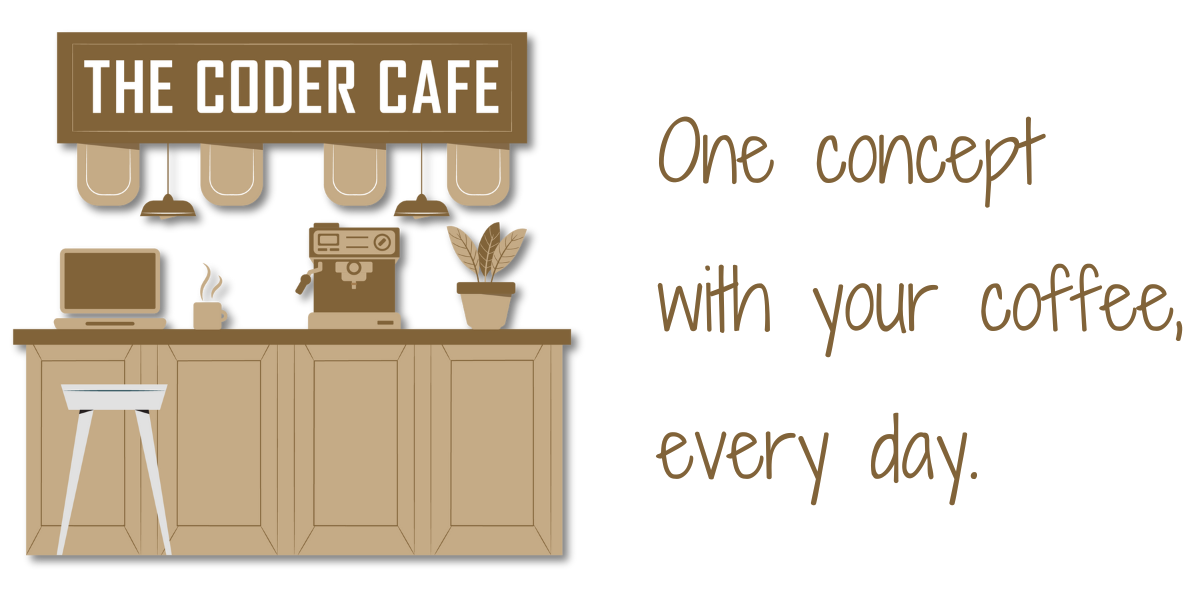
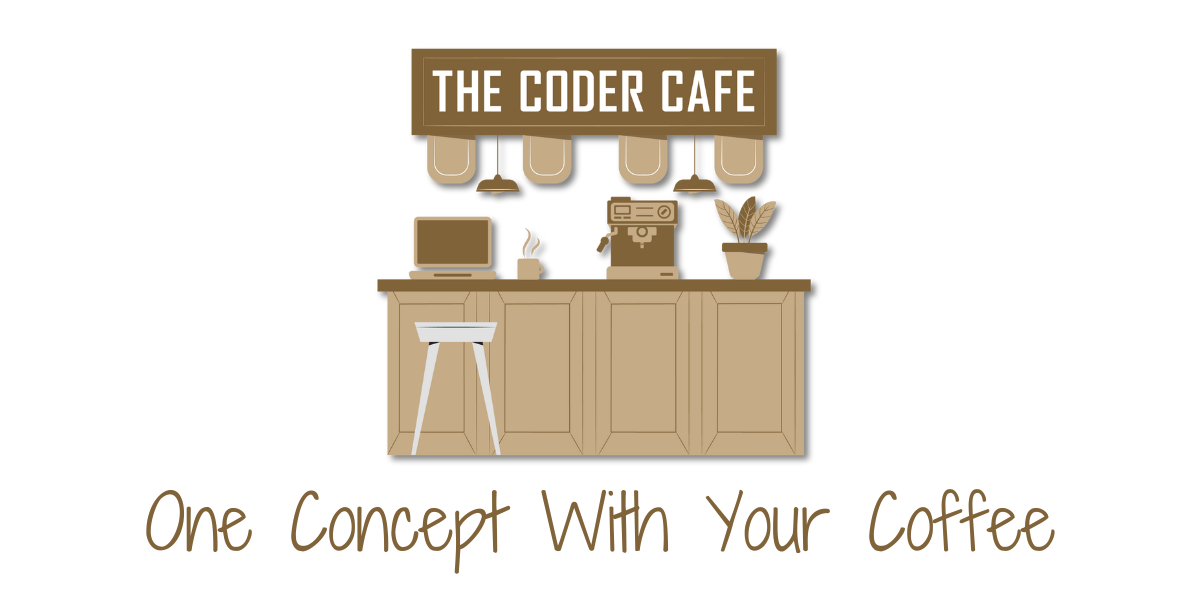
The Coder Cafe update.

diff --git a/site/newsletter/index.html b/site/newsletter/index.html
@@ -445,16 +445,16 @@
 
 
 <h1 id="the-coder-cafe">The Coder Cafe</h1>
-<p>In 2024, I took the next step in blogging by launching a daily newsletter for software engineers:</p>
+<p>In 2024, I took the next step in writing by launching my own newsletter for software engineers:</p>
 <p><center>
 <a href="https://thecoder.cafe">
 <a class="glightbox" href="../img/thecodercafe.png" data-type="image" data-width="auto" data-height="auto" data-desc-position="bottom"><img src="../img/thecodercafe.png" alt="" style="width:600px;height:300px;"></a>
 </a>
 </center></p>
 <blockquote>
-<p><em>Feeling overwhelmed by the endless stream of tech content? At The Coder Cafe, we serve one essential concept for coders daily. Written by a senior software engineer at Google, it's perfectly brewed for your morning coffee, helping you grow your skills deeply.</em></p>
+<p><em>Feeling overwhelmed by the endless stream of tech content? At The Coder Cafe, we serve one essential concepts for coders. Written by a senior software engineer at Google, it's perfectly brewed for your coffee, helping you grow your skills deeply.</em></p>
 </blockquote>
-<p>Feel free to visit <a href="https://thecoder.cafe">The Coder Cafe</a> to check it out. Here's a private <a href="https://www.thecoder.cafe/97539a4e">20% off</a> for the visitors coming from my website.</p>
+<p>Feel free to visit <a href="https://thecoder.cafe">The Coder Cafe</a> to check it out.</p>
 
 
 

diff --git a/docs/index.md b/docs/index.md
@@ -19,7 +19,7 @@ hide:
 
 <th2>Senior Software Engineer at Google</th2>
 
-<th3>Current status: _Doing the [Advent of Code](https://www.adventofcode.com)._</th3>
+<th3>Current status: _Writing my [newsletter](newsletter.md)._</th3>
 
 
 <th2>[:simple-bluesky:](https://bsky.app/profile/teivah.dev)
@@ -40,7 +40,7 @@ My life philosophy relies on 改善 (Kaizen, ‘change for better’). In a nuts
 
 I have 12 years of experience in software engineering. I’m currently working at **Google** as a senior software engineer SRE in the ML Compute team. Before that, I worked in different companies. At Docker, I was a software engineer in the registry team, maintaining systems like Docker registry, Hub & search. At Beat, I was a staff engineer in the matching domain, where I designed, implemented, and operated critical services with a strong focus on reliability and observability. At Utility Warehouse, I refactored the company’s notification platform from a distributed monolith to a microservice paradigm leading to an elastic architecture and an average latency reduction of +90%. At SkySoft-ATM, I worked in a safety-critical environment in the context of the Swiss air navigation service provider, where I designed, proposed, and implemented the company's central data repository used to store and compute flight events. Before, I worked as a tech lead and architect at Axa and Airbus Helicopters.
 
-In 2022, I **published a book** called [100 Go Mistakes and How to Avoid Them](book.md). This book shows common programming mistakes in Go and how to fix them using idiomatic code. So far, it has a pretty cool note of 4.7/5 (avg on Amazon, Goodreads, and Manning), and I’m delighted that it helped that many people (over 8k copies sold, translated in five languages). Furthermore, in 2024 I released a daily [newsletter](newsletter.md) for coders and I keep writing on my [blog](https://teivah.medium.com/) from time to time (50+ posts, ~1 million visits).
+In 2022, I **published a book** called [100 Go Mistakes and How to Avoid Them](book.md). This book shows common programming mistakes in Go and how to fix them using idiomatic code. So far, it has a pretty cool note of 4.7/5 (avg on Amazon, Goodreads, and Manning), and I’m delighted that it helped that many people (over 8k copies sold, translated in five languages). Furthermore, in 2024 I released a [newsletter](newsletter.md) for coders and I keep writing on my [blog](https://teivah.medium.com/) from time to time (50+ posts, ~1 million visits).
 
 Last but not least, I'm also an **open-source** enthusiast ([GitHub](https://github.com/teivah)) and a **public speaker** ([my talks](talks.md)).
 

diff --git a/docs/newsletter.md b/docs/newsletter.md
@@ -9,7 +9,7 @@ hide:
 
 # The Coder Cafe
 
-In 2024, I took the next step in blogging by launching a daily newsletter for software engineers:
+Recently, I took the next step in writing by launching my own newsletter for software engineers:
 
 <center>
 <a href="https://thecoder.cafe">
@@ -18,6 +18,6 @@ In 2024, I took the next step in blogging by launching a daily newsletter for so
 </center>
 
 
-> _Feeling overwhelmed by the endless stream of tech content? At The Coder Cafe, we serve one essential concept for coders daily. Written by a senior software engineer at Google, it's perfectly brewed for your morning coffee, helping you grow your skills deeply._
+> _Feeling overwhelmed by the endless stream of tech content? At The Coder Cafe, we serve one essential concepts for coders. Written by a senior software engineer at Google, it's perfectly brewed for your coffee, helping you grow your skills deeply._
 
-Feel free to visit [The Coder Cafe](https://thecoder.cafe) to check it out. Here's a private [20% off](https://www.thecoder.cafe/97539a4e) for the visitors coming from my website.
+Feel free to visit [The Coder Cafe](https://thecoder.cafe) to check it out.
